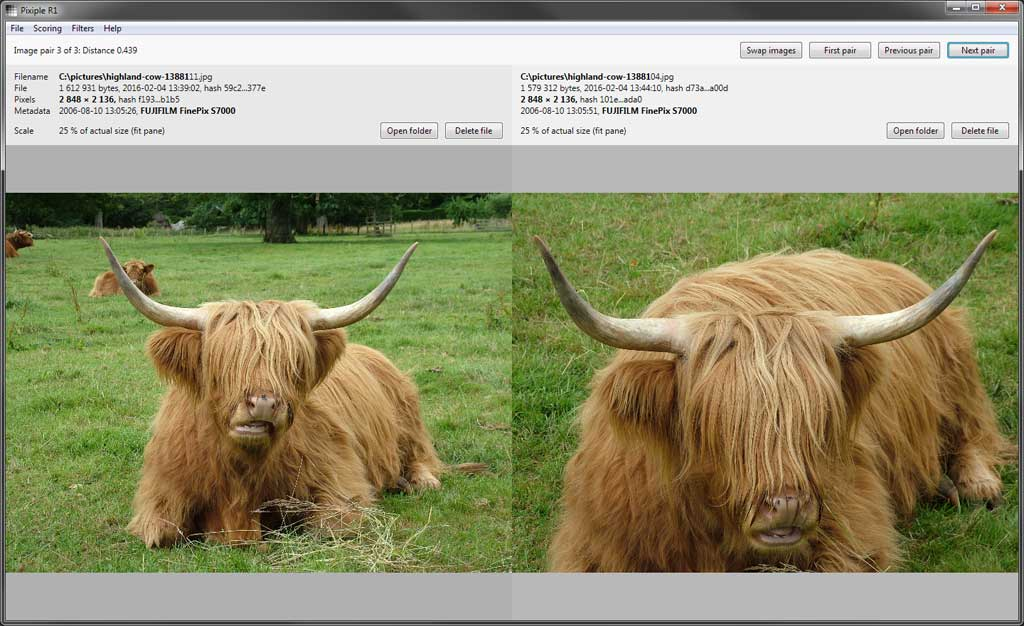
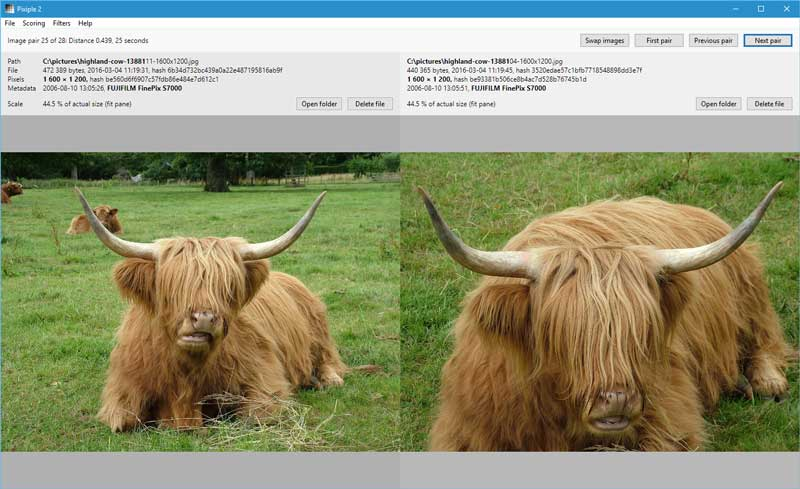
Release 3

diff --git a/src/main.cpp b/src/main.cpp
@@ -53,7 +53,7 @@ std::vector<ComPtr<IShellItem>> browse(HWND parent) {
 static void app() {
 	#define STRINGIZE_(i) L ## # i
 	#define STRINGIZE(i) STRINGIZE_(i)
-	std::wstring window_title = APP_NAME L" (release " STRINGIZE(APP_RELEASE) L")";
+	std::wstring window_title = APP_NAME L" " STRINGIZE(APP_RELEASE);
 	#ifdef _DEBUG
 	window_title += L" _DEBUG";
 	#endif

diff --git a/src/resource.h b/src/resource.h
@@ -2,6 +2,6 @@
 
 #define APP_NAME L"Pixiple"
 #define APP_DESCRIPTION APP_NAME L" similar image finder"
-#define APP_RELEASE 2
+#define APP_RELEASE 3
 
 #define APP_ICON 101

diff --git a/readme.md b/readme.md
@@ -16,19 +16,19 @@ Download the executable from [Releases](https://github.com/olaolsso/pixiple/rele
 
 ## Features
 
-- Fast, multi-threaded processing, though even with a fast SSD, you will likely be IO-bound.
+- Uses pixel and metadata content (dates, location, camera) to find related images.
+- Fast, multi-threaded processing.
 - Resizable, DPI-aware UI.
 
 ## Misfeatures
 
 - Simple, idiosyncratic UI with rough edges.
-- Support for image file formats supported by Windows Imaging Component (PNG, JPEG, GIF, TIFF, BMP) only.
-- Only one folder (and all folders below this folder, recursively) is scanned at a time.
+- Support for image file formats supported by Windows Imaging Component only (PNG, JPEG, GIF, TIFF, BMP).
 - No installer.
 
 ## Requirements
 
-Windows 7 (64-bit). May work with Windows Vista and Windows 10.
+Windows Vista or later.
 
 ## What's similar?
 
